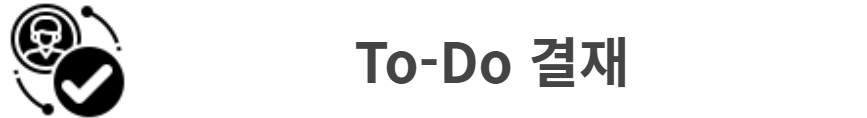
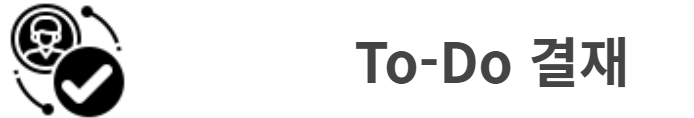
메뉴 수정

Changed region(s): [[0.3934, 0.3051, 0.9078, 0.7373], [0.0, 0.0254, 0.1816, 1.0]]

diff --git a/src/main/resources/static/css/mobile.css b/src/main/resources/static/css/mobile.css
@@ -277,7 +277,7 @@ select,
 	content: "";
 	position: absolute;
 	display: block;
-	width: 360px;
+	width: 290px;
 	height: 50px;
 	background: url('/static/img/menu1.png') no-repeat;
 	background-size: 100% auto;
@@ -288,7 +288,7 @@ select,
 	content: "";
 	position: absolute;
 	display: block;
-	width: 360px;
+	width: 290px;
 	height: 50px;
 	background: url('/static/img/menu2.png') no-repeat;
 	background-size: 100% auto;
@@ -299,7 +299,7 @@ select,
 	content: "";
 	position: absolute;
 	display: block;
-	width: 360px;
+	width: 290px;
 	height: 50px;
 	background: url('/static/img/menu3.png') no-repeat;
 	background-size: 100% auto;
@@ -310,7 +310,7 @@ select,
 	content: "";
 	position: absolute;
 	display: block;
-	width: 360px;
+	width: 290px;
 	height: 50px;
 	background: url('/static/img/menu4.png') no-repeat;
 	background-size: 100% auto;
@@ -321,7 +321,7 @@ select,
 	content: "";
 	position: absolute;
 	display: block;
-	width: 360px;
+	width: 290px;
 	height: 50px;
 	background: url('/static/img/menu5.png') no-repeat;
 	background-size: 100% auto;
@@ -332,7 +332,7 @@ select,
 	content: "";
 	position: absolute;
 	display: block;
-	width: 360px;
+	width: 290px;
 	height: 50px;
 	background: url('/static/img/menu6.png') no-repeat;
 	background-size: 100% auto;
@@ -343,7 +343,7 @@ select,
 	content: "";
 	position: absolute;
 	display: block;
-	width: 360px;
+	width: 290px;
 	height: 50px;
 	background: url('/static/img/menu7.png') no-repeat;
 	background-size: 100% auto;
@@ -354,7 +354,7 @@ select,
 	content: "";
 	position: absolute;
 	display: block;
-	width: 360px;
+	width: 290px;
 	height: 50px;
 	background: url('/static/img/menu8.png') no-repeat;
 	background-size: 100% auto;

diff --git a/src/main/resources/static/mobile/menu.html b/src/main/resources/static/mobile/menu.html
@@ -32,14 +32,14 @@
 	</div>
 	<div id="main_area">
 		<ul class="mobile_menu">
-			<li><a class="btn type01" onclick="btnGo(1)">To-Do 결재</a></li>
-			<li><a class="btn type02" onclick="btnGo(7)">개인 작업 일보</a></li>
-			<li><a class="btn type03" onclick="btnGo(9)">출장/휴가자 현황</a></li>
-			<li><a class="btn type04" onclick="btnGo(5)">매출/이익 현황</a></li>
-			<li><a class="btn type05" onclick="btnGo(3)">수주 현황</a></li>
-			<li><a class="btn type06" onclick="btnGo(2)">매입 현황</a></li>
-			<li><a class="btn type07" onclick="btnGo(4)">일정지연현황</a></li>
-			<li><a class="btn type08" onclick="btnGo(8)">장애발생현황</a></li>
+			<li><a class="btn type01" onclick="btnGo(1)"></a></li>
+			<li><a class="btn type02" onclick="btnGo(7)"></a></li>
+			<li><a class="btn type03" onclick="btnGo(9)"></a></li>
+			<li><a class="btn type04" onclick="btnGo(5)"></a></li>
+			<li><a class="btn type05" onclick="btnGo(3)"></a></li>
+			<li><a class="btn type06" onclick="btnGo(2)"></a></li>
+			<li><a class="btn type07" onclick="btnGo(4)"></a></li>
+			<li><a class="btn type08" onclick="btnGo(8)"></a></li>
 		</ul>
 	</div>
 	<script type="text/javascript">

diff --git a/src/main/resources/static/html/user/sm/sm10/SM1001M01.html b/src/main/resources/static/html/user/sm/sm10/SM1001M01.html
@@ -478,7 +478,7 @@
   			alert("출력할 프로젝트를 선택해주세요.");
   			return;
   		}
-  		var fileName = "SM1001M001.jrf";
+  		var fileName = "SM1001M01.jrf";
   		var arg = "coCd#" + row.coCd + "#prjctCd#" + row.prjctCd + "#";
 		callReport(fileName, arg, "1050", "700");
 	}
